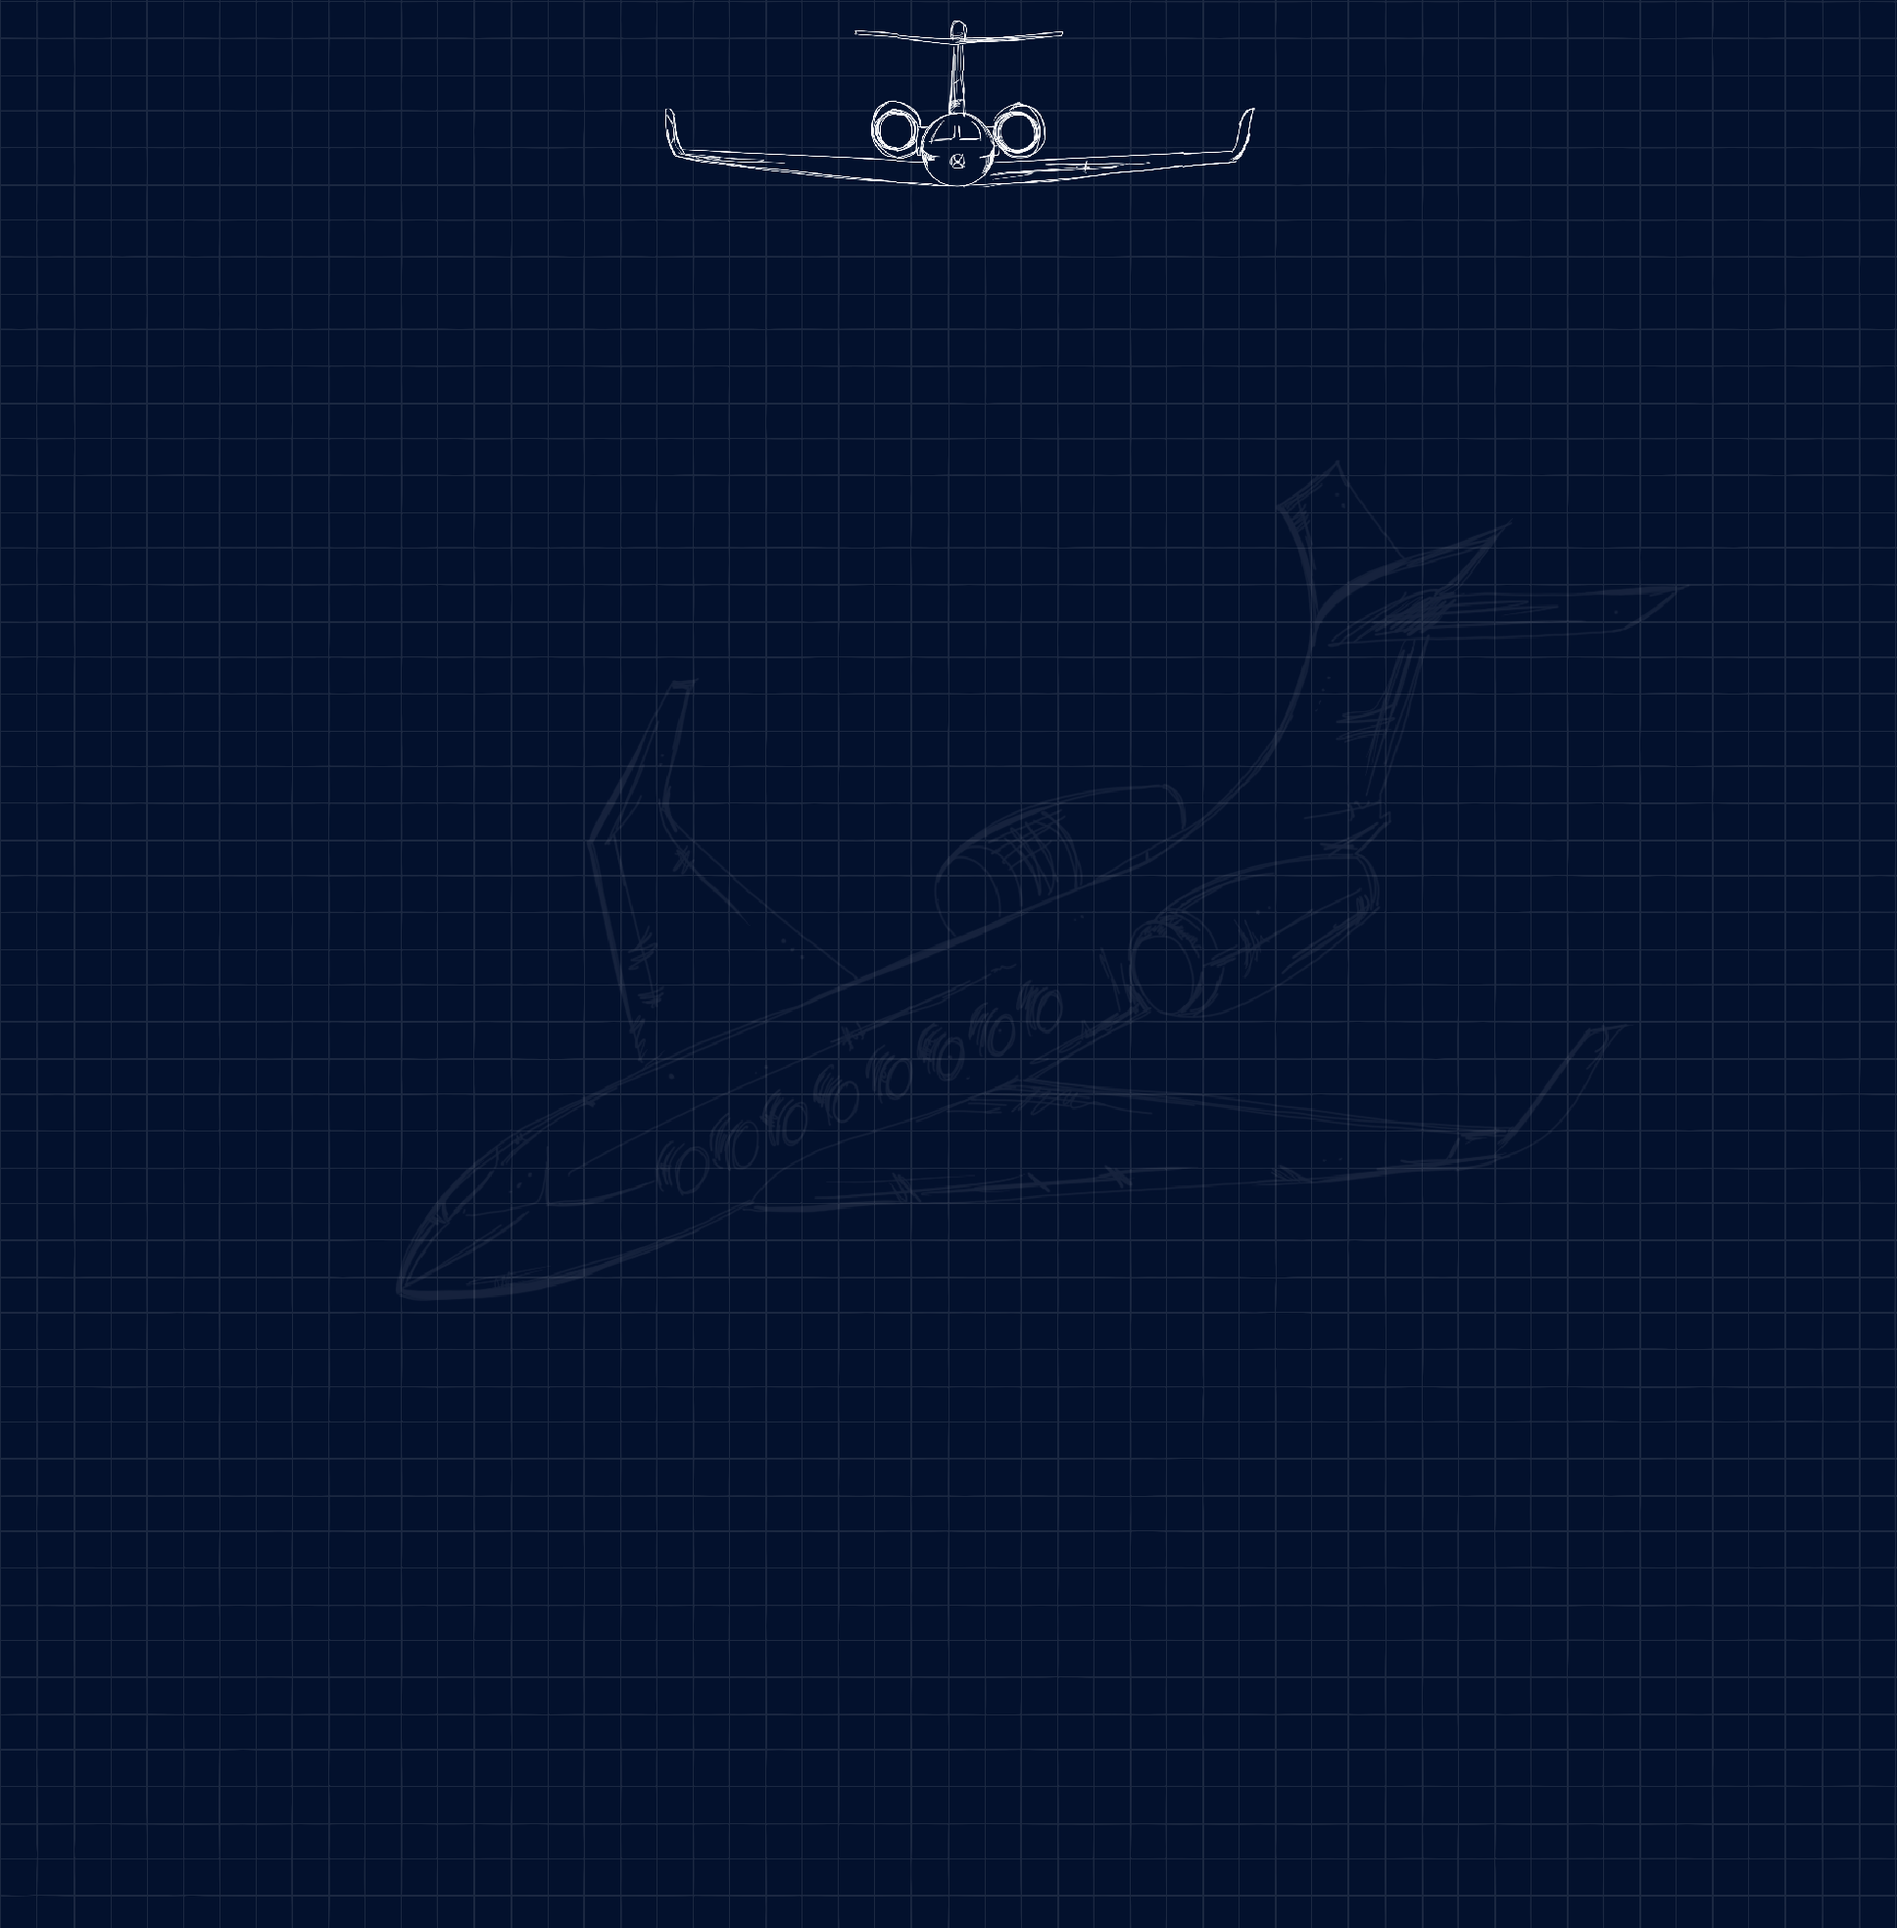
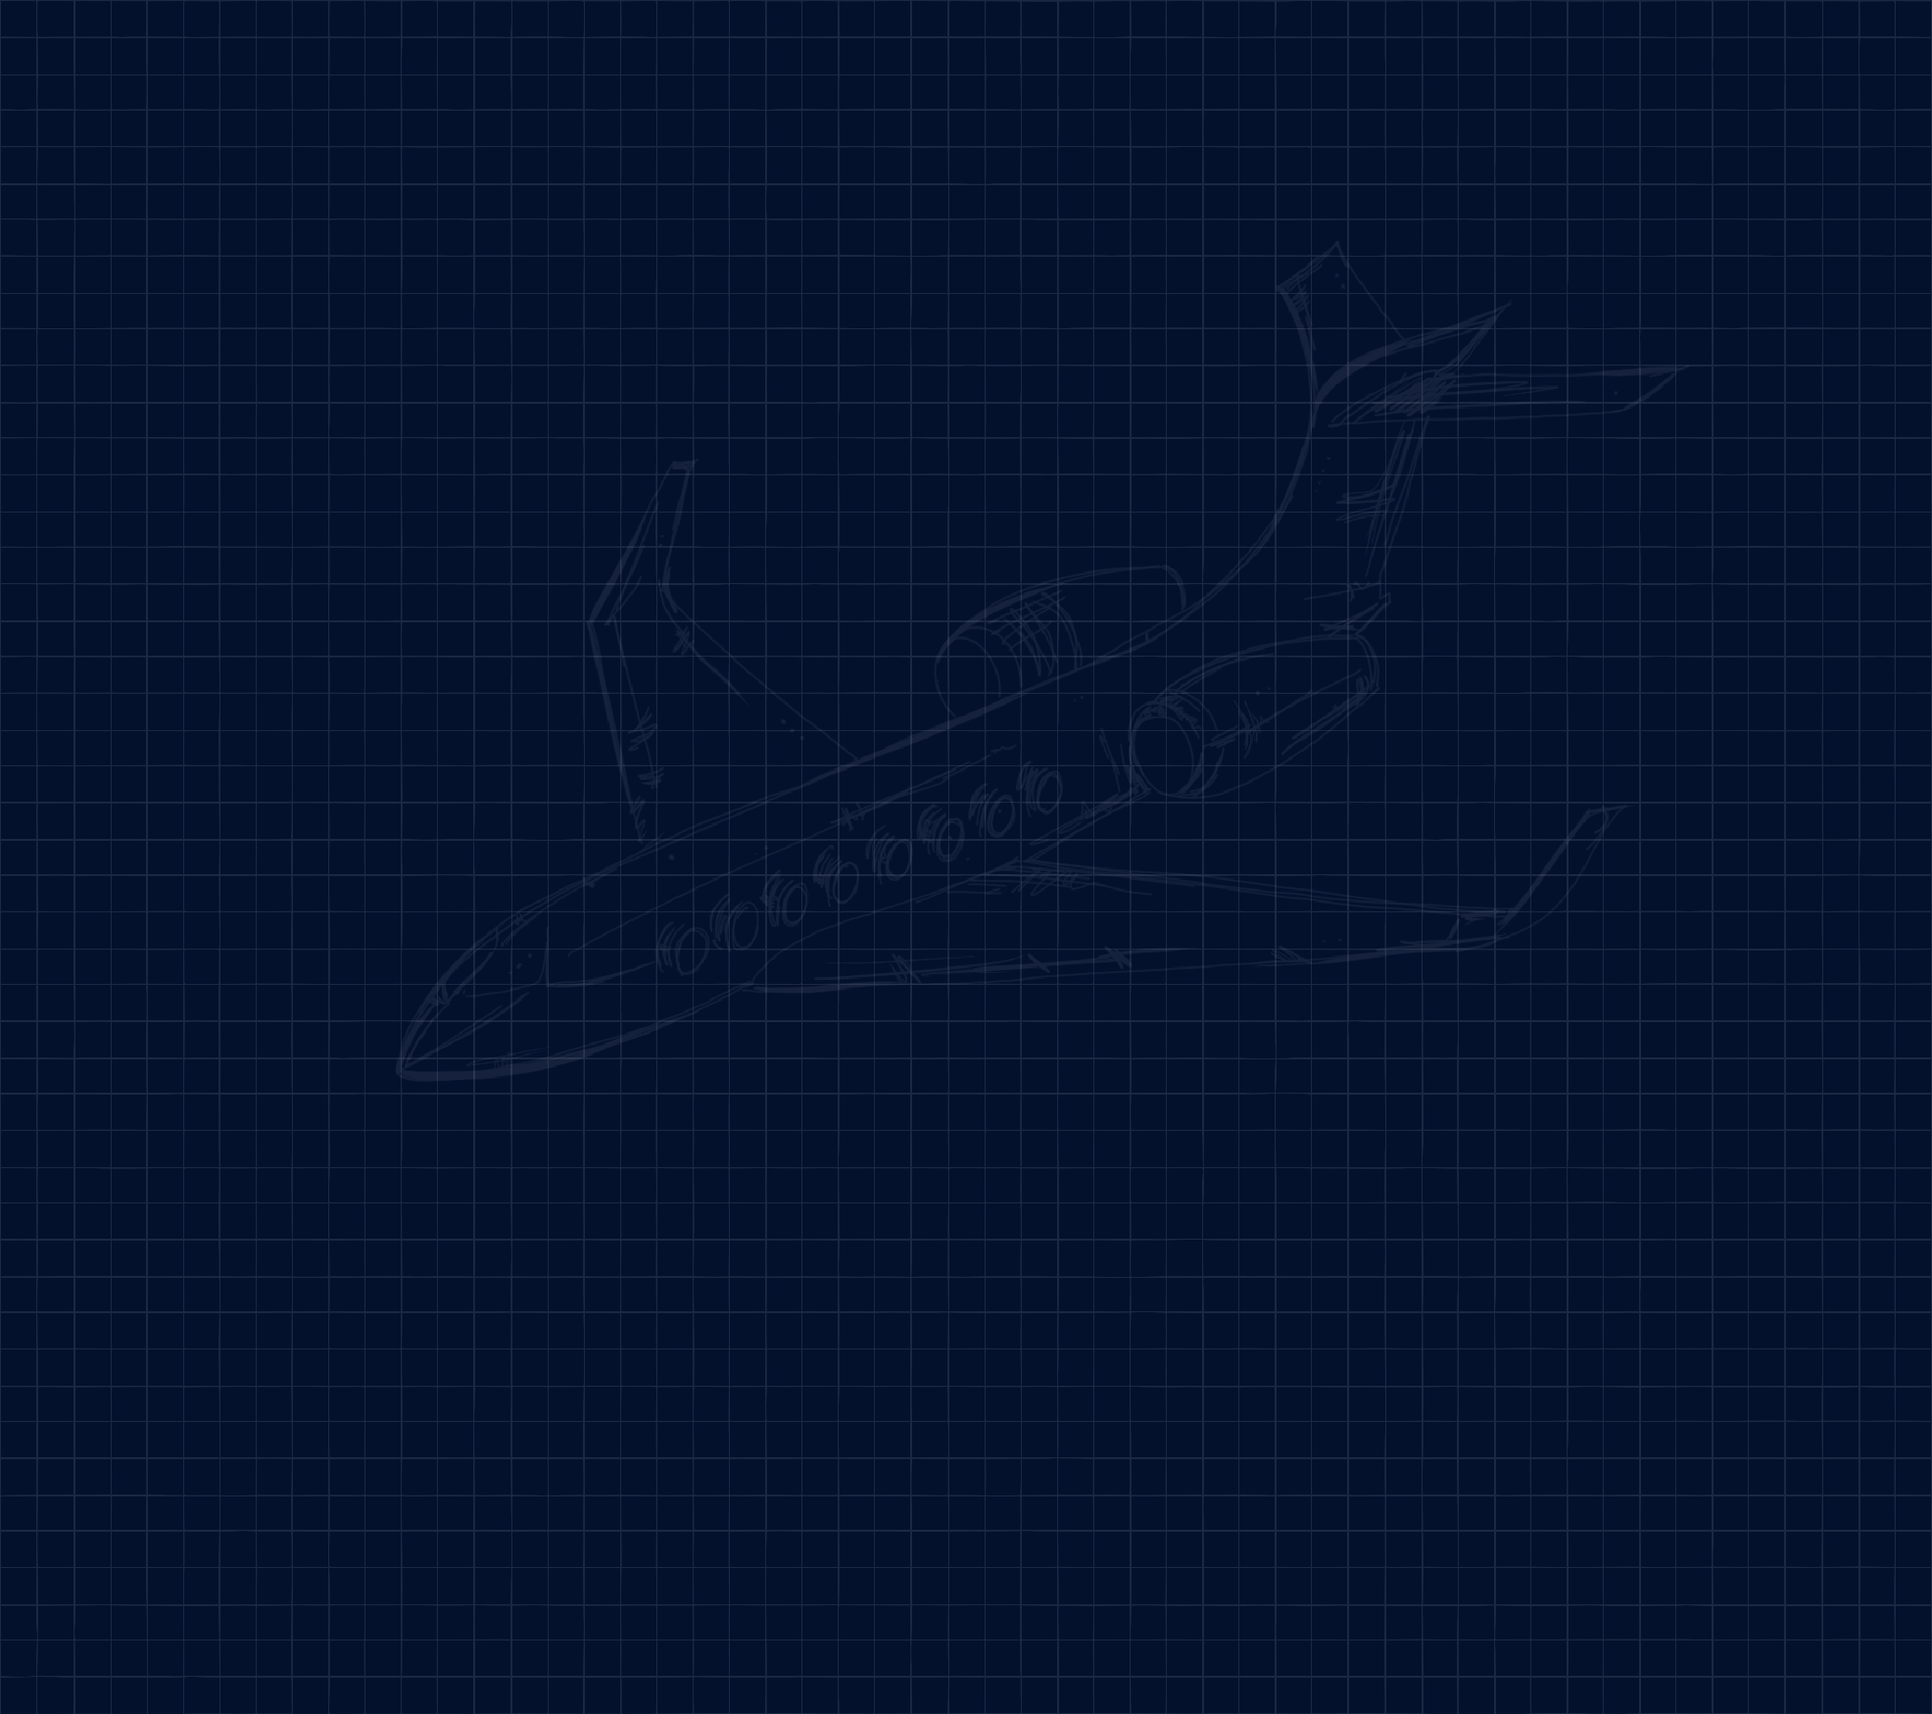
roadmap/blueprint work

Changed region(s): [[0.3409, 0.0, 0.6198, 0.0926]]

diff --git a/src/components/pages/Roadmap.js b/src/components/pages/Roadmap.js
@@ -1,20 +1,31 @@
 import Header from "../Header";
+import jet from "../assets/jet.png";
+import bp_jet from "../assets/bp_jet.PNG"
 
 const Roadmap = () => {
   return (
     <div>
       {/* outer container for all roadmap items */}
-      <div className="relative bg-top bg-[url('./components/assets/blueprint_ext.PNG')] ">
+      <div className="relative">
         <Header />
+        <div className="w-full">
+          <img src={bp_jet} alt="blueprint jet" />
+        </div>
         {/* OG blueprint */}
-        <div className="w-full pt-64 bg-top bg-[url('./components/assets/blueprint.PNG')] bg-no-repeat pb-52">
-          <div className="mx-40 px-8">
+        <div className="w-full pt-64 bg-top bg-[url('./components/assets/blueprint.PNG')] bg-repeat">
+          <div className="text-[100px] text-center font-jose text-lounge-gold">
+            OG BLUEPRINT
+          </div>
+          <div className="mx-40 px-10">
             <p className="text-white">
               What is the JetGetter Club ?<br />
               <div className="pl-20">
                 <p>
                   Web3 travel brand centered around enjoying life through travel
                   and more...
+                  <br />
+                  For the new wave of travelers. Securing the bag & catching
+                  vibes. Living life unapologetically.
                 </p>
               </div>
               <br />
@@ -32,7 +43,11 @@ const Roadmap = () => {
               <div className="pl-20">
                 <div className="grid grid-cols-3 gap-3">
                   <div>
-                    1. <span className="underline">COMMUNITY</span>:
+                    1.{" "}
+                    <a href="#community">
+                      <span className="underline">COMMUNITY</span>
+                    </a>
+                    :
                   </div>
                   <div className="col-span-2 font-caveat ">
                     We are building a community that wants to experience the
@@ -44,17 +59,19 @@ const Roadmap = () => {
                   <div>
                     2. <span className="underline">MEDIA</span>:
                   </div>
-                  <div className="col-span-2 font-caveat">We are creating a
-                  media outlet to share authentic travel content from and for a
-                  diverse group of people.
+                  <div className="col-span-2 font-caveat">
+                    We are creating a media outlet to share authentic travel
+                    content from and for a diverse group of people.
                   </div>
                   <div>
                     3. <span className="underline">TRAVEL</span>:
                   </div>
                   <div className="col-span-2 font-caveat ">
-                    Book curated trips directly with the JetGeter Club using SOL + USD.
+                    Book curated trips directly with the JetGeter Club using SOL
+                    + USD.
                     <br />
-                    Our partnered destinations: India, Dubai, Greece, Maldives, Bhutan, and a few more...
+                    Our partnered destinations: India, Dubai, Greece, Maldives,
+                    Bhutan, and a few more...
                   </div>
                 </div>
               </div>
@@ -74,10 +91,191 @@ const Roadmap = () => {
               <br />- Community wallet providing rewards for all Jet Hodlers
             </p>
           </div>
-        </div>
         {/* expanded blueprint */}
-        <div className="w-full pt-64 pb-52">
-        Expanded blueprint here...
+          <div className="text-[80px] text-center font-jose text-lounge-gold">
+            EXPANDED BLUEPRINT
+          </div>
+          <div className="mx-40 px-10">
+            <p className="text-white">
+              INTRODUCTION 🛬
+              <br />
+              <div className="pl-20">
+                <p>
+                  Once in a lifetime experiences should be for everyone. For the
+                  average person, traveling to another state can already be a
+                  tall task let alone another country or around the world. As
+                  the tourism industry bounces back and grows, we believe travel
+                  should be accessible to everyone. Others may want to keep it
+                  as a fantasy or believe it's something only wealthy or retired
+                  people can do. Fuck that. We're here to see everyone
+                  experience the world.
+                  <br />
+                  <br />
+                </p>
+                <p>
+                  With over a decade facilitating experiences around the world &
+                  generations in the travel industry, we are pioneering travel
+                  in Web3. While others just look to make a profit & the rest
+                  want to keep it out of reach, we're a group of passionate
+                  travelers that wants to connect the world. Our philosophy is
+                  simple: Traveling will change your life.
+                  <br />
+                  <br />
+                </p>
+                <p>
+                  This is NOT an investment opportunity, moon play, passive
+                  income, or anything like that. Think of it as replacing travel
+                  credit card perks & shit. Your NFT is an exclusive access pass
+                  to a growing brand & community in this space, one that will
+                  reward its holders, provide value to the ecosystem, and have
+                  everyone enjoying life while we do it.
+                </p>
+              </div>
+              <br />
+              30 Seconds in an Elevator ⏱ <br />
+              <div className="pl-20">
+                <p>
+                  "What is JetGetter Club ?"
+                  <br />
+                  <br />
+                </p>
+                <p>
+                  A Brand utilizing Web3 to make travel accessible & build the
+                  dopest travel community in the world. <br />
+                  <br />
+                </p>
+                <p>
+                  "How ?"
+                  <br />
+                  <br />
+                </p>
+                <p>
+                  Accepting crypto for curated travel bookings & creating a
+                  platform to provide resources for the best experiences in the
+                  world.
+                  <br />
+                  <br />
+                </p>
+              </div>
+              <br />
+              Why JetGetter? 🛩 <br />
+              <div className="pl-20">
+                <p>
+                  We welcome all PFPs and Normies.
+                  <br />
+                  <br />
+                </p>
+                <p>
+                  JetGetter Club was founded to build the best travel community
+                  in Web3 & our NFTs will give you access to some of the best
+                  experiences in the world. Bond with others over your passion
+                  to see the world and be put on to things you never knew of
+                  before. This is not some cookie cutter shit either, the way we
+                  see travel is about exploring cultures & places to the fullest
+                  not just tourist attractions (though those are still fun).
+                  When our Mint Sells out, we will be sending 20 people on a
+                  trip to one of our partnered destinations. <br />
+                  <br />
+                </p>
+                <p>
+                  There is one thing we know for sure, more people need to
+                  travel and more people need to be invested into crypto. Our
+                  goal is to help onboard in both ways while we catch vibes
+                  together. Life is about balance and doing the things that you
+                  love, even if you don't travel if you believe in that ethos,
+                  you're in the right place.
+                  <br />
+                  <br />
+                </p>
+                <p>
+                  Accepting crypto for curated travel bookings & creating a
+                  platform to provide resources for the best experiences in the
+                  world.
+                  <br />
+                  <br />
+                </p>
+              </div>
+              <br />
+              What does it mean to be a JetGetter? 🤔 <br />
+              <div className="pl-20">
+                <p>
+                  It's a lifestyle, rep your PFP online & do JetGetter shit IRL.
+                  <br />
+                  <br />
+                </p>
+                <p>
+                  Simply put, you're a dope individual that knows how to enjoy
+                  life. You're a tastemaker. You're open minded. You want to
+                  experience the most you can in this life. You like good food.
+                  You like to learn about other cultures & you use all these
+                  things to shape your perspective in life. Lastly, you
+                  understand the balance between wealth and enjoying the fruits
+                  of your labor & if you're none of these things but want to
+                  learn, we're here to welcome you. <br />
+                  <br />
+                </p>
+                <p>
+                  There's much more to being a JetGetter but we'll let our
+                  community determine what that means.
+                  <br />
+                  <br />
+                </p>
+              </div>
+              <br />
+              What are we building? 🧱 <br />
+              <div className="pl-20">
+                <div className="grid grid-cols-3 gap-3">
+                  <div id="community">
+                    1. <span className="underline">COMMUNITY</span>:
+                  </div>
+                  <div className="col-span-2 font-caveat ">
+                    Our community will be the “Travel Influencers”, but the most
+                    authentic ones you've come across. People coming together to
+                    share their experiences with others, learn from one another,
+                    form bonds that may lead to taking trips together, meetups
+                    when you're in each others' cities, and just an overall
+                    place to have fun around similar interests.
+                  </div>
+                  <div id="media">
+                    2. <span className="underline">MEDIA</span>:
+                  </div>
+                  <div className="col-span-2 font-caveat">
+                    How do we showcase our community as the tastemakers of Web3?
+                    We build & use our platform to showcase our expertise by
+                    providing quality travel content that is authentic &
+                    informative. We'll be looking for video editors & quality
+                    content created to be featured on various social media
+                    pages. This is an opportunity for us to create partnerships,
+                    reward & showcase members of our community, bring some
+                    realness to the travel industry and grow the overall brand.
+                    Aside from creating content, there has been a rising desire
+                    from our community to put all the info we share in discord
+                    in a consolidated way. Post mint we'll explore building a
+                    social media-like platform to have all the information
+                    stored in an easily accessible way.
+                  </div>
+                  <div id="travel">
+                    3. <span className="underline">TRAVEL</span>:
+                  </div>
+                  <div className="col-span-2 font-caveat ">
+                    This is the alpha you've been waiting for. We are suppliers
+                    of full vacation packages in a number of countries including
+                    India, Dubai, Greece, Maldives, and Bhutan. What that mean
+                    is we already have partnerships with airlines, hotels,
+                    drivers, and guides where we have curated itineraries that
+                    are customizable based on your interests upon your request.
+                    Our partnerships with airlines for booking flights are
+                    currently only for those flying out of the US but anyone
+                    international can still take advantage of everything else in
+                    any of those destinations. These trips are also perfect for
+                    NFT communities to connect IRL as we can service up to a 500
+                    person trip.
+                  </div>
+                </div>
+              </div>
+              <br />
+            </p>
+          </div>
         </div>
       </div>
     </div>
